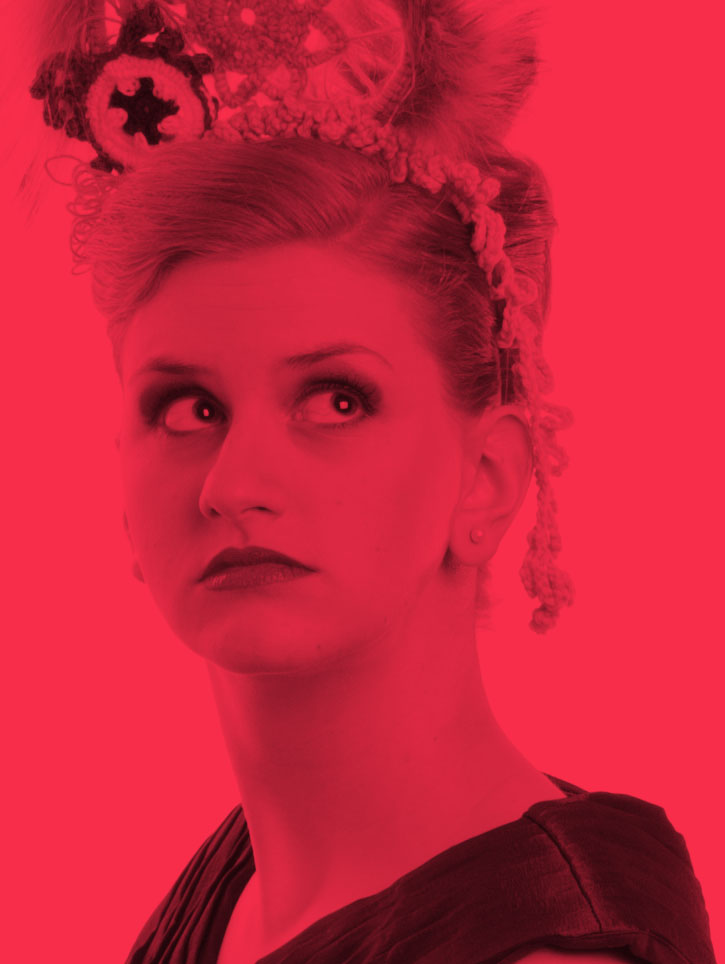
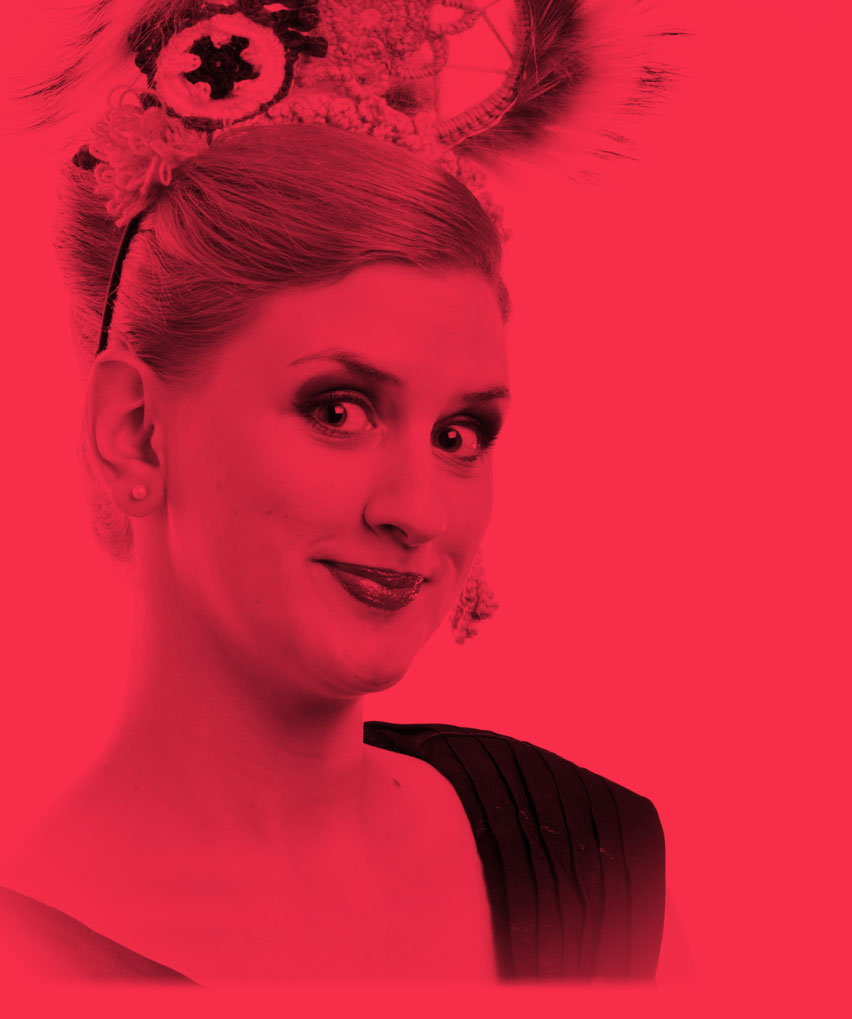
Add Duchesses images

diff --git a/wp-content/themes/revengeance/style.scss b/wp-content/themes/revengeance/style.scss
@@ -253,13 +253,15 @@ h4 { font-size:12px; }
 	h1 { font: 21px 'ColaborateBoldRegular'; }
 }
 
-#felix-dumas {
-	.duchesse { background: url(img/duchesses/felix_dumas.jpg) 0 0 no-repeat; }
-}
-#catherine-genest {
-	.duchesse { background: url(img/duchesses/catherine_genest.jpg) 0 0 no-repeat; }
-	.duchesse-infos { left: 360px; top: 575px;}
-}
+.duchesse { background: url(img/duchesses/felix_dumas.jpg) 0 0 no-repeat; }
+
+#caroline-decoste .duchesse { background: url(img/duchesses/caroline_decoste.jpg) 0 0 no-repeat; }
+#catherine-genest .duchesse { background: url(img/duchesses/catherine_genest.jpg) 0 0 no-repeat; }
+#emilie-de-launiere .duchesse { background: url(img/duchesses/emilie_de_launiere.jpg) 0 0 no-repeat; }
+#erika-soucy .duchesse { background: url(img/duchesses/erika_soucy.jpg) 0 0 no-repeat; }
+#marcelle-maheu .duchesse { background: url(img/duchesses/marcelle_maheu.jpg) 0 0 no-repeat; }
+#marie-chantal-chretien .duchesse { background: url(img/duchesses/marie_chantal_chretien.jpg) 0 0 no-repeat; }
+#zoe-forest-paradis .duchesse { background: url(img/duchesses/zoe_forest_paradis.jpg) 0 0 no-repeat; }
 
 .arrow {
 	background: rgba(117, 0, 17, 0.75) url(img/arrows.png) 8px center no-repeat;

diff --git a/wp-content/themes/revengeance/style.css b/wp-content/themes/revengeance/style.css
@@ -248,14 +248,29 @@ h4 {
   .duchesse-infos h1 {
     font: 21px 'ColaborateBoldRegular'; }
 
-#felix-dumas .duchesse {
+.duchesse {
   background: url(img/duchesses/felix_dumas.jpg) 0 0 no-repeat; }
+
+#caroline-decoste .duchesse {
+  background: url(img/duchesses/caroline_decoste.jpg) 0 0 no-repeat; }
 
 #catherine-genest .duchesse {
   background: url(img/duchesses/catherine_genest.jpg) 0 0 no-repeat; }
-#catherine-genest .duchesse-infos {
-  left: 360px;
-  top: 575px; }
+
+#emilie-de-launiere .duchesse {
+  background: url(img/duchesses/emilie_de_launiere.jpg) 0 0 no-repeat; }
+
+#erika-soucy .duchesse {
+  background: url(img/duchesses/erika_soucy.jpg) 0 0 no-repeat; }
+
+#marcelle-maheu .duchesse {
+  background: url(img/duchesses/marcelle_maheu.jpg) 0 0 no-repeat; }
+
+#marie-chantal-chretien .duchesse {
+  background: url(img/duchesses/marie_chantal_chretien.jpg) 0 0 no-repeat; }
+
+#zoe-forest-paradis .duchesse {
+  background: url(img/duchesses/zoe_forest_paradis.jpg) 0 0 no-repeat; }
 
 .arrow {
   background: rgba(117, 0, 17, 0.75) url(img/arrows.png) 8px center no-repeat;

diff --git a/wp-content/themes/revengeance/js/default.js b/wp-content/themes/revengeance/js/default.js
@@ -10,8 +10,8 @@ $(function(){
 		var cur_duchesse = duchesses.filter(':visible');
 		var $this = $(this);
 		var duchesse_to_show = get_duchesse_to_show.call($this, cur_duchesse);
-		cur_duchesse.fadeOut();
-		duchesse_to_show.fadeIn();
+		cur_duchesse.addClass('hidden')
+		duchesse_to_show.removeClass('hidden');
 	}
 
 	function get_duchesse_to_show(cur) {
